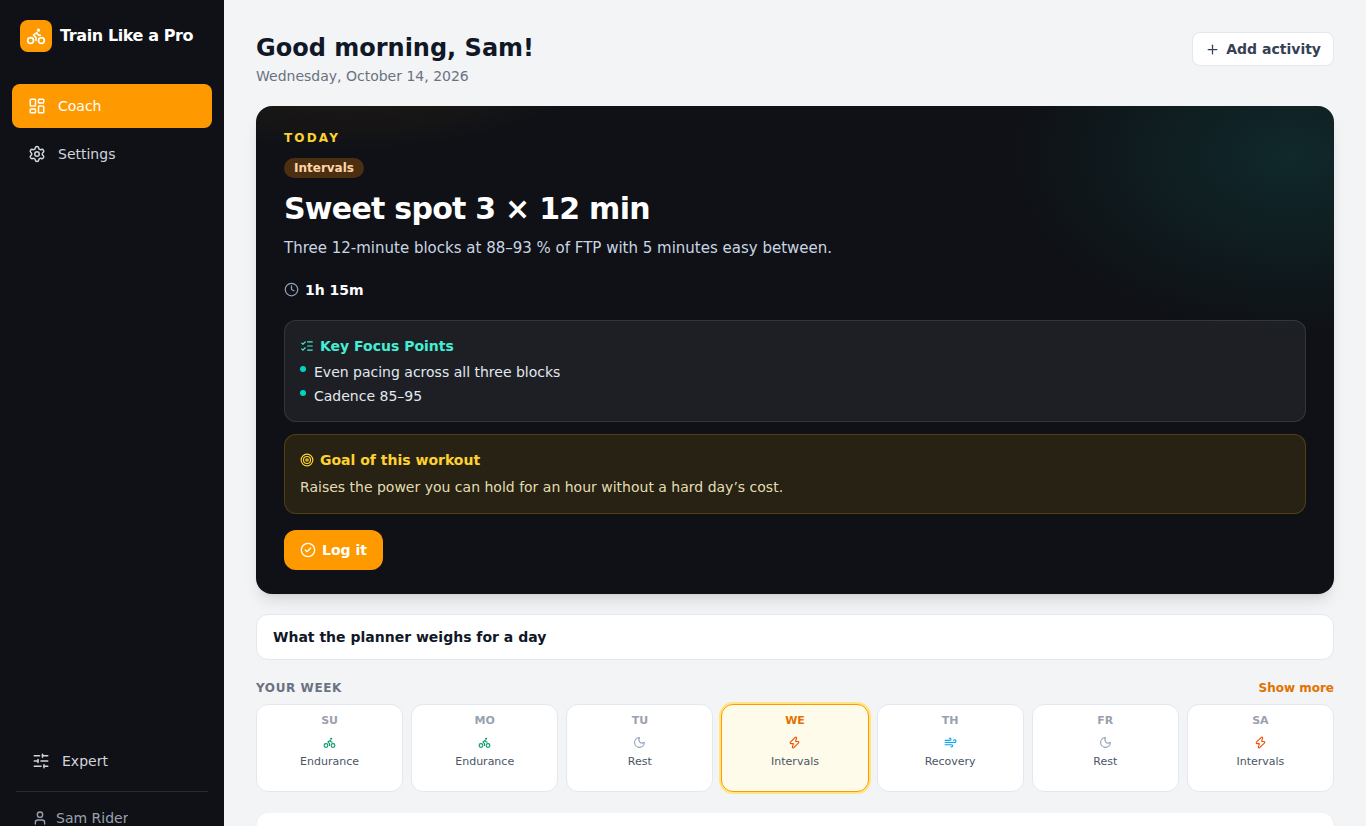
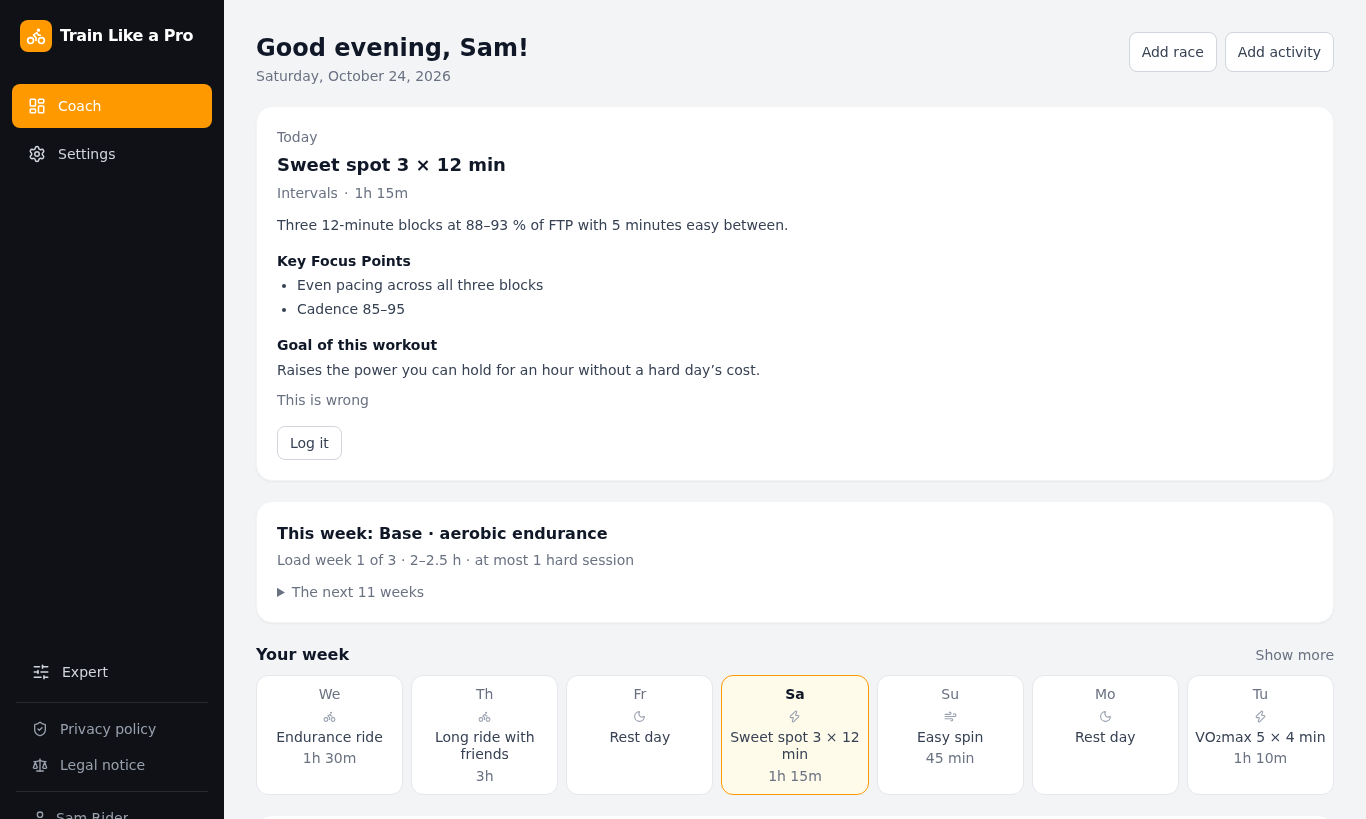
Show a rider with history in the landing page picture (ai-trainer-ops#294)
The landing page's dashboard picture still showed the design from before
#1025. On the owner's (b) landing-screenshot.spec.ts now enters eight
synthetic rides through POST /users/me/activities before it writes the
realistic fortnight: the card under "Today" is today's session, not "0 of
8 activities". It waits for the season card, which loads last and pushed
the week out of the frame, and ends the frame below the week strip.
Regenerated with UPDATE_LANDING_SCREENSHOT=1: 91 KB, the old one 121 KB.

Frontend 0.122.16.

Claude-Session: https://claude.ai/code/session_01Xw1LyWkSEsDywrUK6nPXJD

diff --git a/frontend/e2e/stubbed/landing-screenshot.spec.ts b/frontend/e2e/stubbed/landing-screenshot.spec.ts
@@ -3,7 +3,9 @@
  *
  * A synthetic athlete with a realistic fortnight, never real data: the stub's
  * own plan is `[stub]` text by construction, so after onboarding this replaces
- * it through the API with sessions a reader would recognise. Every run attaches
+ * it through the API with sessions a reader would recognise. Eight synthetic
+ * rides go in first, through the stub stack's own import, so the picture shows
+ * a rider with history rather than "0 of 8 activities" (ai-trainer-ops#294). Every run attaches
  * the picture to the report, so CI always has a current one. With
  * `UPDATE_LANDING_SCREENSHOT=1` it also writes the copy the landing page serves,
  * `public/landing-dashboard.png`; that copy changes only when someone does so.
@@ -82,14 +84,52 @@ async function onboard(page: Page) {
   })
 }
 
-/** Replace the stub's fortnight with the realistic one, as the athlete. */
-async function writeRealisticPlan(page: Page) {
+/** The athlete's bearer token, for the API calls below. */
+async function login(page: Page): Promise<string> {
   // Without `X-Auth-Mode: cookie` the login answers with a bearer token.
-  const login = await page.request.post(`${API}/auth/login`, {
+  const response = await page.request.post(`${API}/auth/login`, {
     data: { email: athlete.email, password: athlete.password },
   })
-  expect(login.ok()).toBeTruthy()
-  const { access_token: token } = await login.json()
+  expect(response.ok()).toBeTruthy()
+  return (await response.json()).access_token
+}
+
+// Two weeks of riding before the plan's first day: days back, minutes,
+// perceived effort (1-5), km, average heart rate, normalized watts.
+const RIDES: [number, number, number, number, number, number][] = [
+  [-17, 60, 2, 28, 136, 178],
+  [-16, 90, 3, 41, 139, 190],
+  [-14, 75, 4, 34, 148, 214],
+  [-13, 45, 1, 19, 124, 146],
+  [-11, 120, 3, 55, 140, 186],
+  [-9, 70, 4, 31, 151, 219],
+  [-7, 60, 2, 27, 135, 175],
+  [-5, 150, 3, 68, 141, 184],
+]
+
+/** Eight past rides, entered through the API as the athlete would by hand: the
+ *  stub stack's analysis is stubbed and cannot price an import. Before the plan
+ *  is written, so nothing it does to the plan survives. */
+async function seedRides(page: Page, token: string) {
+  for (const [offset, minutes, effort, km, heartRate, watts] of RIDES) {
+    const response = await page.request.post(`${API}/users/me/activities`, {
+      headers: { Authorization: `Bearer ${token}` },
+      data: {
+        date: isoDate(offset),
+        sport: 'cycling',
+        durationMinutes: minutes,
+        perceivedEffort: effort,
+        distanceKm: km,
+        averageHeartRate: heartRate,
+        normalizedPower: watts,
+      },
+    })
+    expect(response.ok()).toBeTruthy()
+  }
+}
+
+/** Replace the stub's fortnight with the realistic one, as the athlete. */
+async function writeRealisticPlan(page: Page, token: string) {
   // From three days back, so the week strip shows days already done.
   const plan = Array.from({ length: 17 }, (_, index) => {
     const offset = index - 3
@@ -113,7 +153,9 @@ test('the landing page picture is a real dashboard with a realistic week', async
   // One picture, at the width the landing page shows it.
   test.skip(testInfo.project.name !== 'desktop-1366', 'the picture is taken at desktop width')
   await onboard(page)
-  await writeRealisticPlan(page)
+  const token = await login(page)
+  await seedRides(page, token)
+  await writeRealisticPlan(page, token)
 
   await page.reload()
   await expect(page.getByText(WEEK[0].title).first()).toBeVisible({ timeout: 30_000 })
@@ -123,10 +165,21 @@ test('the landing page picture is a real dashboard with a realistic week', async
   // whether the plan history had loaded yet.
   await expect(page.getByText('[stub]').filter({ visible: true })).toHaveCount(0)
 
-  // Today's session and the week: what #53 asked the picture to show.
-  const week = await page.getByRole('heading', { name: /your week/i }).first().boundingBox()
-  const strip = week ? week.y + week.height + 130 : 680
-  const clip = { x: 0, y: 0, width: 1366, height: Math.round(strip) }
+  // Today's session and the week: what #53 asked the picture to show. The season
+  // card loads after the plan and pushes the week down; measured before it, the
+  // frame cut the strip off (ai-trainer-ops#294). So the frame ends below the
+  // block that holds the heading and the strip, once the page has settled.
+  await expect(page.getByText(/^This week:/).first()).toBeVisible({ timeout: 30_000 })
+  await page.waitForLoadState('networkidle')
+  const bottom = await page
+    .getByRole('heading', { name: /your week/i })
+    .first()
+    .evaluate((heading) => {
+      let block: HTMLElement | null = heading as HTMLElement
+      while (block && block.getBoundingClientRect().height < 100) block = block.parentElement
+      return (block ?? (heading as HTMLElement)).getBoundingClientRect().bottom
+    })
+  const clip = { x: 0, y: 0, width: 1366, height: Math.round(bottom + 24) }
   const shot = testInfo.outputPath('landing-dashboard.png')
   await page.screenshot({ path: shot, clip })
   await testInfo.attach('landing-dashboard', { path: shot, contentType: 'image/png' })

diff --git a/frontend/CHANGELOG.md b/frontend/CHANGELOG.md
@@ -60,6 +60,17 @@ and this project adheres to [Semantic Versioning](https://semver.org/spec/v2.0.0
 
 ### Fixed
 
+- **The landing page picture shows the current dashboard of a rider with
+  history** (ai-trainer-ops#294, the owner's (b)). `landing-dashboard.png`
+  still showed the design from before #1025. `landing-screenshot.spec.ts` now
+  enters eight synthetic rides through `POST /users/me/activities` before it
+  writes the realistic fortnight, so the card under "Today" is today's session
+  and no "0 of 8 activities". It also waits for the season card, which loads
+  last and pushed the week out of the frame, and ends the frame below the week
+  strip. The new picture is 91 KB, the old one 121 KB.
+
+  Frontend 0.122.16, 2026-10-24.
+
 - **Settings → Coach & AI shows a tester less of the coach's engine room**
   (ai-trainer-ops#217). Since #1024, the model names and the hypotheses are
   shown in expert mode only. A tester still saw the key section with an
